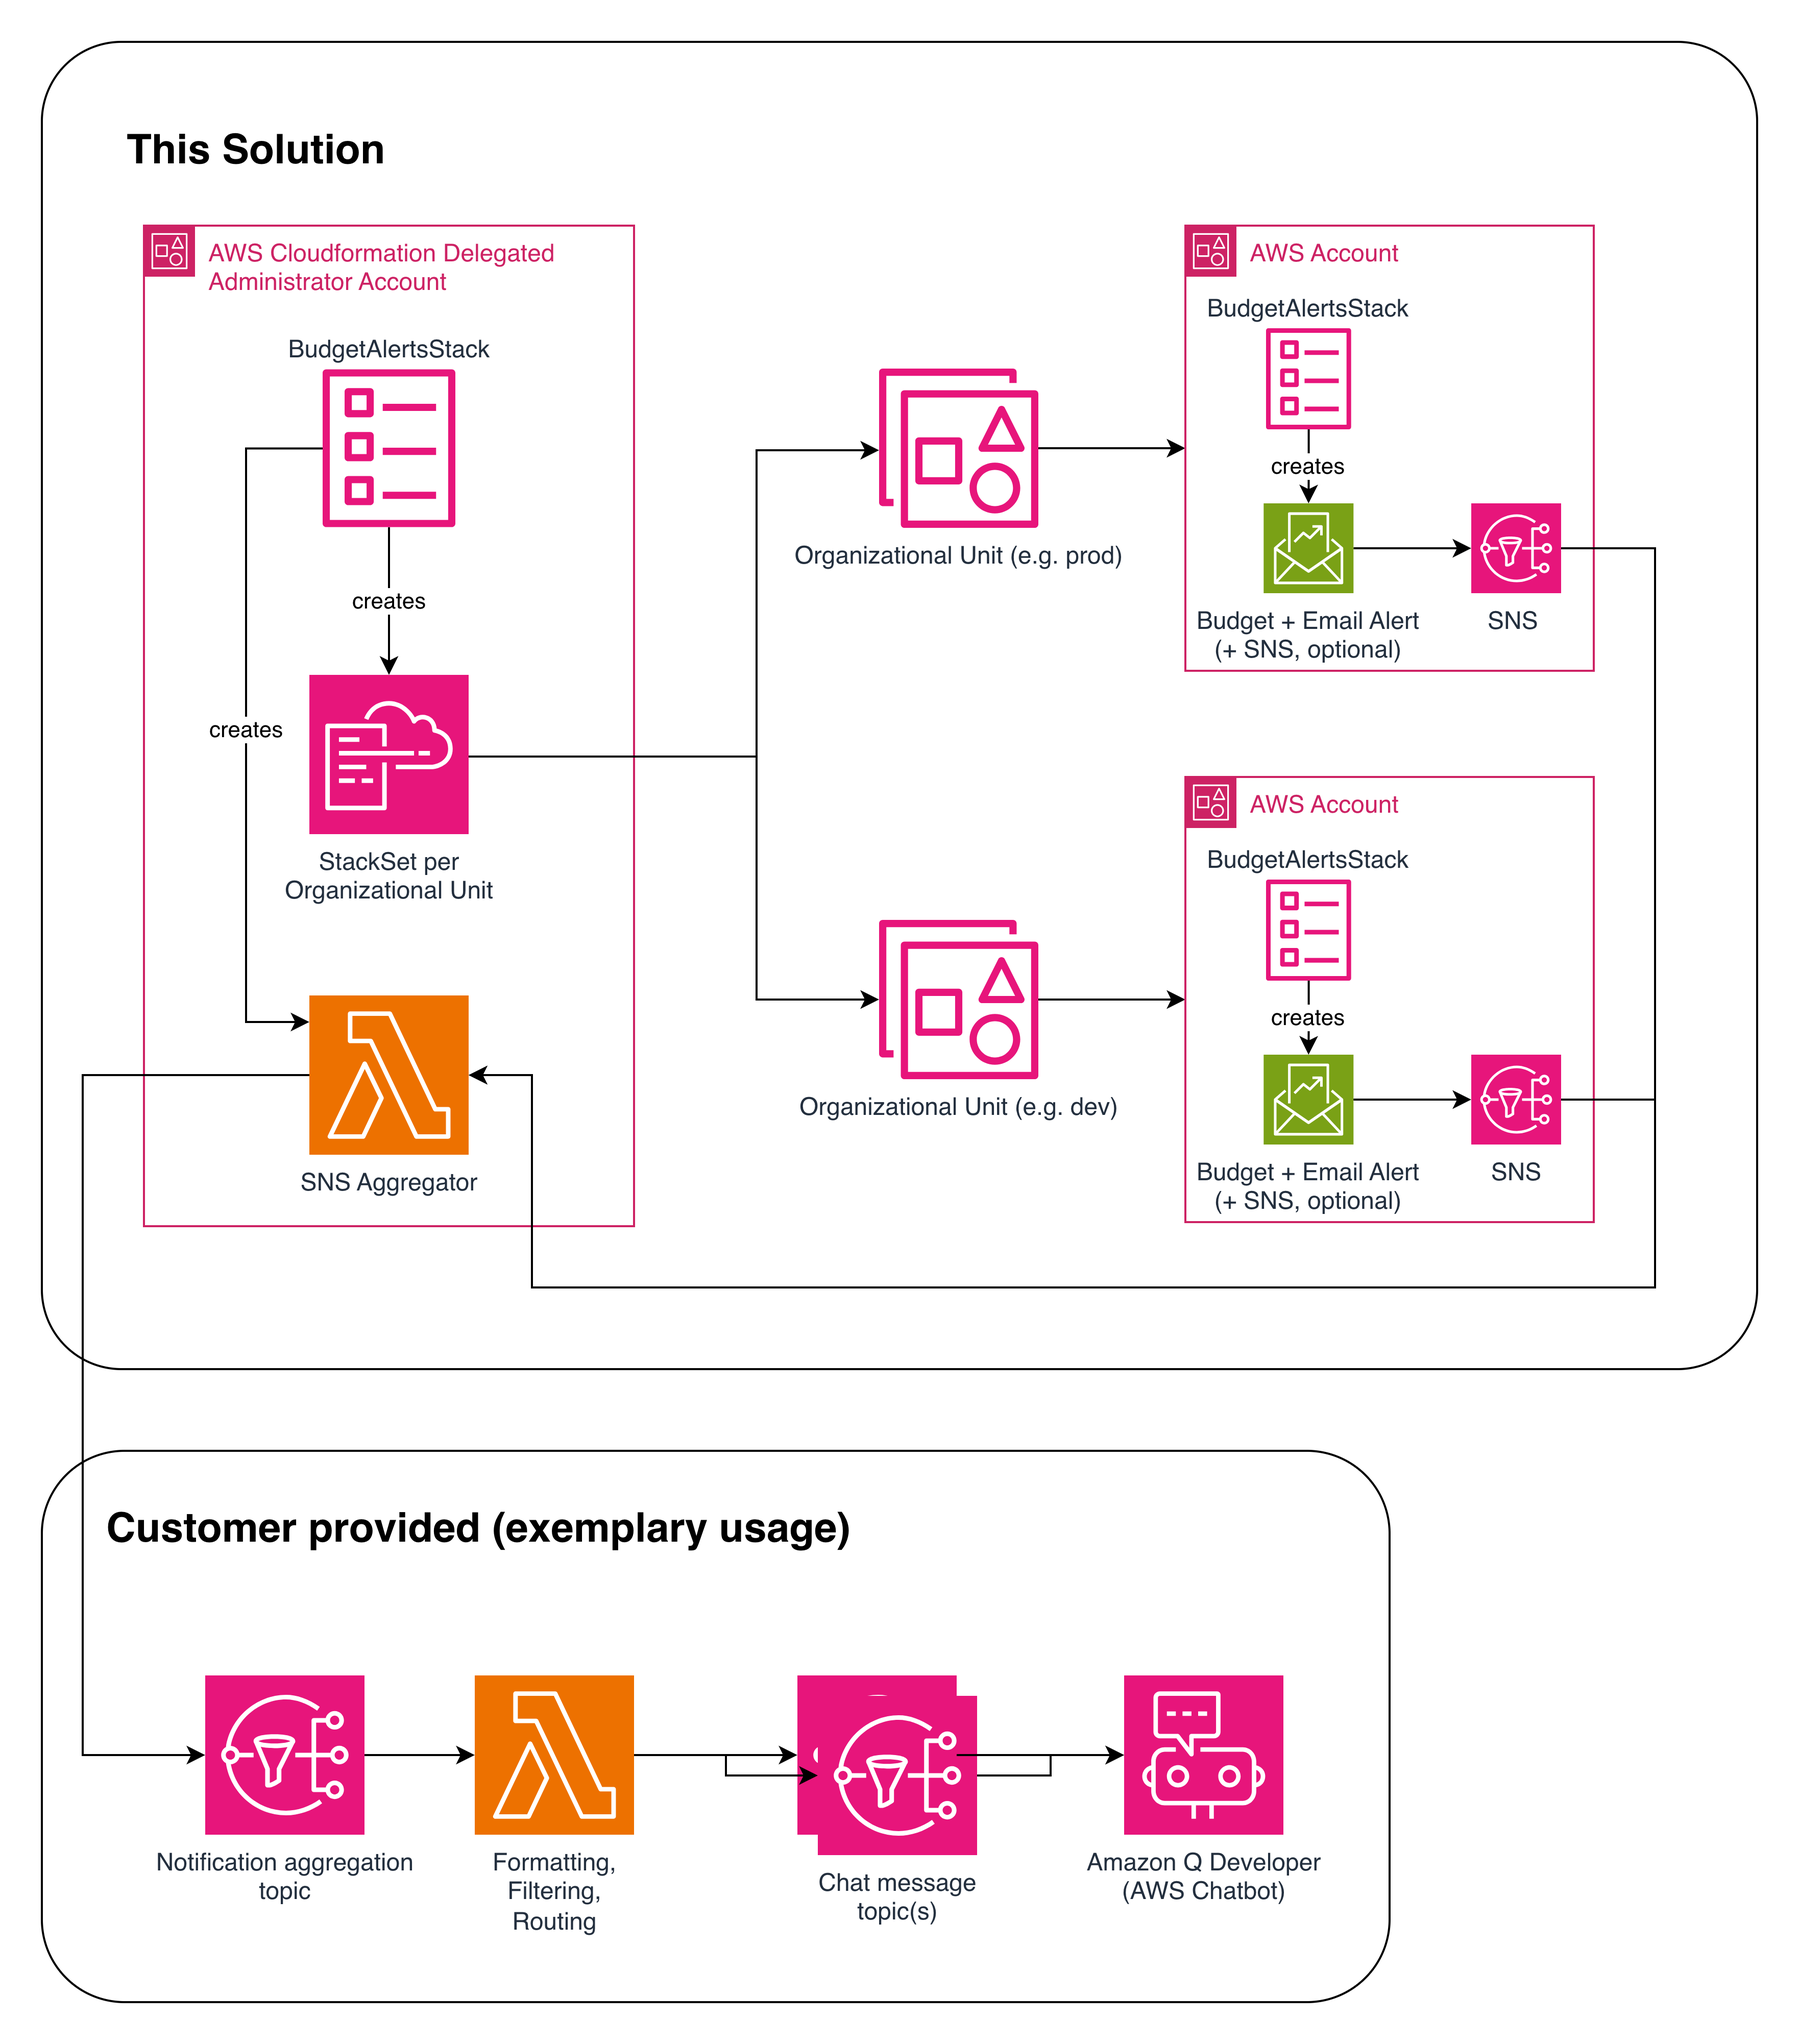
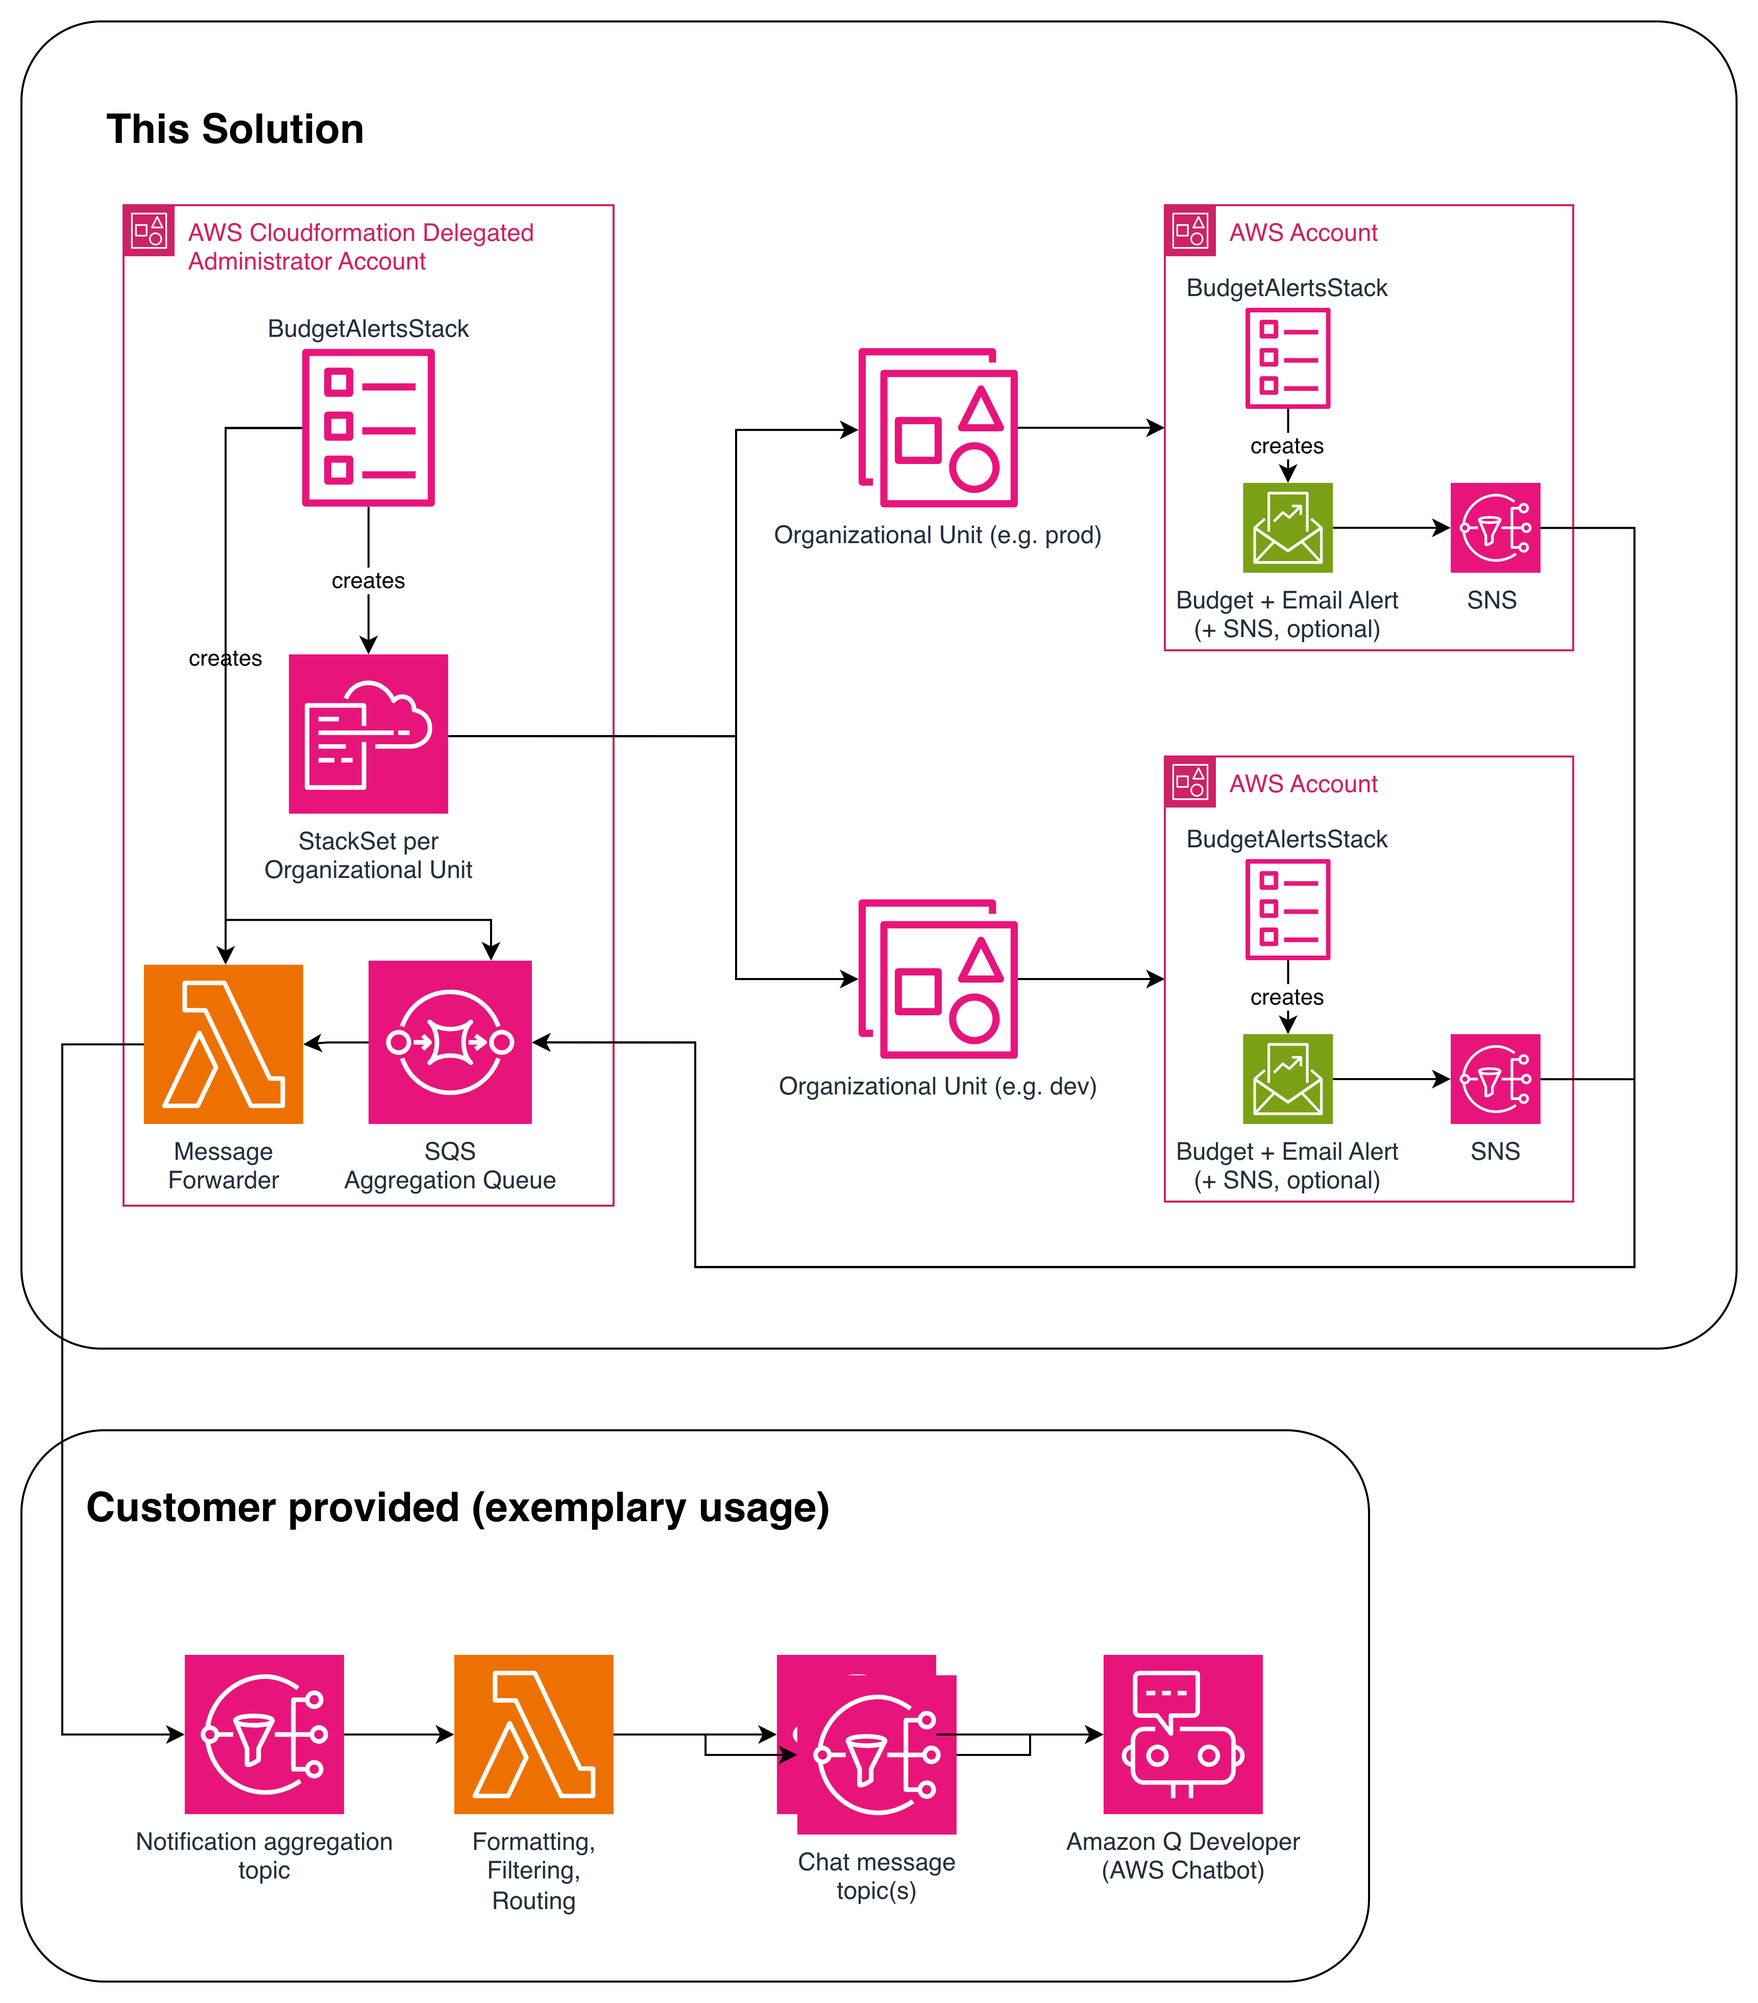
chore: add tests for subscription confirmation, fix permissions and update docs

diff --git a/test/lib/budget-alerts-stack.forward-sns-message.test.ts b/test/lib/budget-alerts-stack.forward-sns-message.test.ts
@@ -1,6 +1,6 @@
 /* eslint-disable @typescript-eslint/no-empty-function */
 import { handler } from '../../lib/budget-alerts-stack.forward-sns-message';
-import { SNSClient, PublishCommand } from '@aws-sdk/client-sns';
+import { SNSClient, PublishCommand, ConfirmSubscriptionCommand } from '@aws-sdk/client-sns';
 import { mockClient } from 'aws-sdk-client-mock';
 import type { Context, SQSEvent } from 'aws-lambda';
 import { sqsEvent, type SqsEventRecordInput } from '../helpers/wrapped-events';
@@ -155,5 +155,103 @@ FORECASTED Amount: $0.95
       await expect(handler(event, context)).rejects.toThrow('Failed message');
       expect(snsMock.calls()).toHaveLength(3);
     });
+  });
+});
+
+describe('subscription confirmation handling', () => {
+  const TARGET_TOPIC_ARN = 'arn:aws:sns:us-east-1:123456789012:target-topic';
+
+  beforeEach(() => {
+    snsMock.reset();
+    process.env.TARGET_SNS_TOPIC_ARN = TARGET_TOPIC_ARN;
+  });
+
+  const createMockContext = (): Context => ({
+    callbackWaitsForEmptyEventLoop: false,
+    functionName: 'test-function',
+    functionVersion: '1',
+    invokedFunctionArn: 'arn:aws:lambda:us-east-1:123456789012:function:test-function',
+    memoryLimitInMB: '128',
+    awsRequestId: 'test-request-id',
+    logGroupName: '/aws/lambda/test-function',
+    logStreamName: '2024/01/01/[$LATEST]test',
+    getRemainingTimeInMillis: () => 30000,
+    done: () => {},
+    fail: () => {},
+    succeed: () => {},
+  });
+
+  const createSubscriptionConfirmationSQSEvent = (): SQSEvent => {
+    const body = JSON.stringify({
+      Type: 'SubscriptionConfirmation',
+      MessageId: '11111111-2222-3333-4444-555555555555',
+      Token: 'example-token',
+      TopicArn: 'arn:aws:sns:us-east-1:123456789012:source-topic',
+      Message: 'You have chosen to subscribe to the topic.',
+      SubscribeURL:
+        'https://sns.us-east-1.amazonaws.com/?Action=ConfirmSubscription&TopicArn=arn:aws:sns:us-east-1:123456789012:source-topic&Token=example-token',
+      Timestamp: '2026-01-28T11:52:33.584Z',
+      SignatureVersion: '1',
+      Signature: 'signature',
+      SigningCertURL: 'https://sns.us-east-1.amazonaws.com/SimpleNotificationService-12345.pem',
+    });
+
+    return {
+      Records: [
+        {
+          messageId: 'sub-confirm-message-id',
+          receiptHandle: 'handle',
+          body,
+          attributes: {
+            ApproximateReceiveCount: '1',
+            SentTimestamp: '1769601153617',
+            SenderId: 'AIDAISMY7JYY5F7RTT6AO',
+            ApproximateFirstReceiveTimestamp: '1769601153631',
+          },
+          messageAttributes: {},
+          md5OfBody: 'md5',
+          eventSource: 'aws:sqs',
+          eventSourceARN: 'arn:aws:sqs:us-east-1:123456789012:test',
+          awsRegion: 'us-east-1',
+        },
+      ],
+    } as SQSEvent;
+  };
+
+  it('should confirm subscription when receiving SubscriptionConfirmation message', async () => {
+    const context = createMockContext();
+
+    // ConfirmSubscription success
+    snsMock.on(ConfirmSubscriptionCommand).resolves({
+      SubscriptionArn: 'arn:aws:sns:us-east-1:123456789012:source-topic:sub-arn',
+    });
+
+    const event = createSubscriptionConfirmationSQSEvent();
+    await handler(event, context);
+
+    // No publish calls should be made, only a confirmation
+    const calls = snsMock.calls();
+    expect(calls).toHaveLength(1);
+    const call = snsMock.call(0);
+    expect(call.args[0]).toBeInstanceOf(ConfirmSubscriptionCommand);
+    expect(call.args[0].input).toMatchObject({
+      TopicArn: 'arn:aws:sns:us-east-1:123456789012:source-topic',
+      Token: 'example-token',
+    });
+  });
+
+  it('should propagate error when subscription confirmation fails', async () => {
+    const context = createMockContext();
+
+    // ConfirmSubscription failure
+    snsMock.on(ConfirmSubscriptionCommand).rejects(new Error('confirm failed'));
+
+    const event = createSubscriptionConfirmationSQSEvent();
+    await expect(handler(event, context)).rejects.toThrow('confirm failed');
+
+    const calls = snsMock.calls();
+    expect(calls).toHaveLength(1);
+    const call = snsMock.call(0);
+    expect(call.args[0]).toBeInstanceOf(ConfirmSubscriptionCommand);
   });
 });

diff --git a/lib/budget-alerts-stack.ts b/lib/budget-alerts-stack.ts
@@ -212,6 +212,18 @@ class BudgetAlert extends StackSetStack {
         subscriptionType: 'SNS',
         address: notificationTopic.topicArn,
       });
+      notificationTopic.addToResourcePolicy(
+        new iam.PolicyStatement({
+          actions: ['sns:Subscribe'],
+          resources: [notificationTopic.topicArn],
+          principals: [new iam.ServicePrincipal('sqs.amazonaws.com')],
+          conditions: {
+            PrincipalOrgID: {
+              StringEquals: delegatedAdminAccountId,
+            },
+          },
+        }),
+      );
 
       notificationTopic.addSubscription(
         new subscriptions.SqsSubscription(
